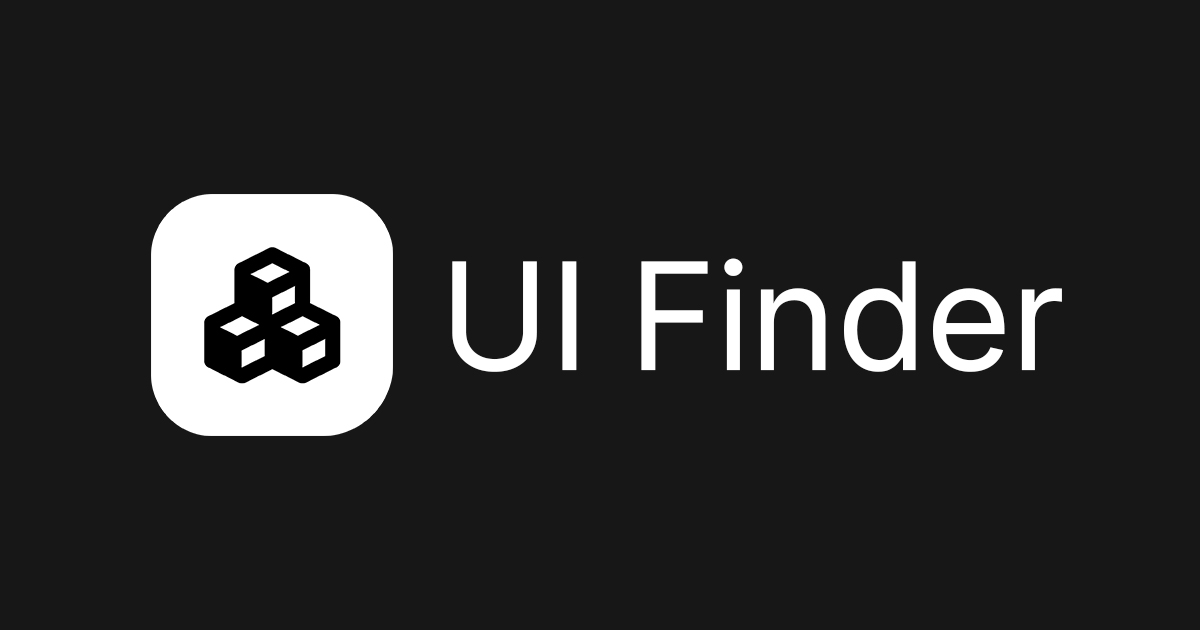
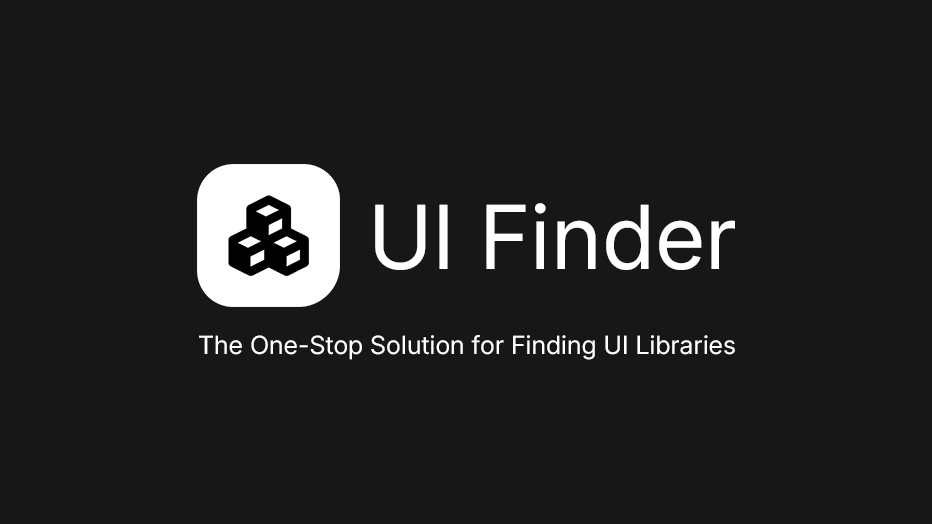
chore: update README.md

Changed region(s): [[0.1245, 0.3053, 0.9024, 0.7023]]

diff --git a/README.md b/README.md
@@ -1,6 +1,6 @@
 [![UI Finder Banner](./.github/assets/banner.jpg)](https://ui-finder.dev/)
 
-# UI Finder: The One-Stop Solution for Finding UI Libraries
+# UI Finder
 UI Finder is an app that helps you find the right UI libraries in seconds. No more hours of web surfing in search of libraries that match your framework, are popular enough, and actively maintained. You can filter libraries by different settings, sort and order them as you like. Enjoy and have fun!
 
 ## Features
